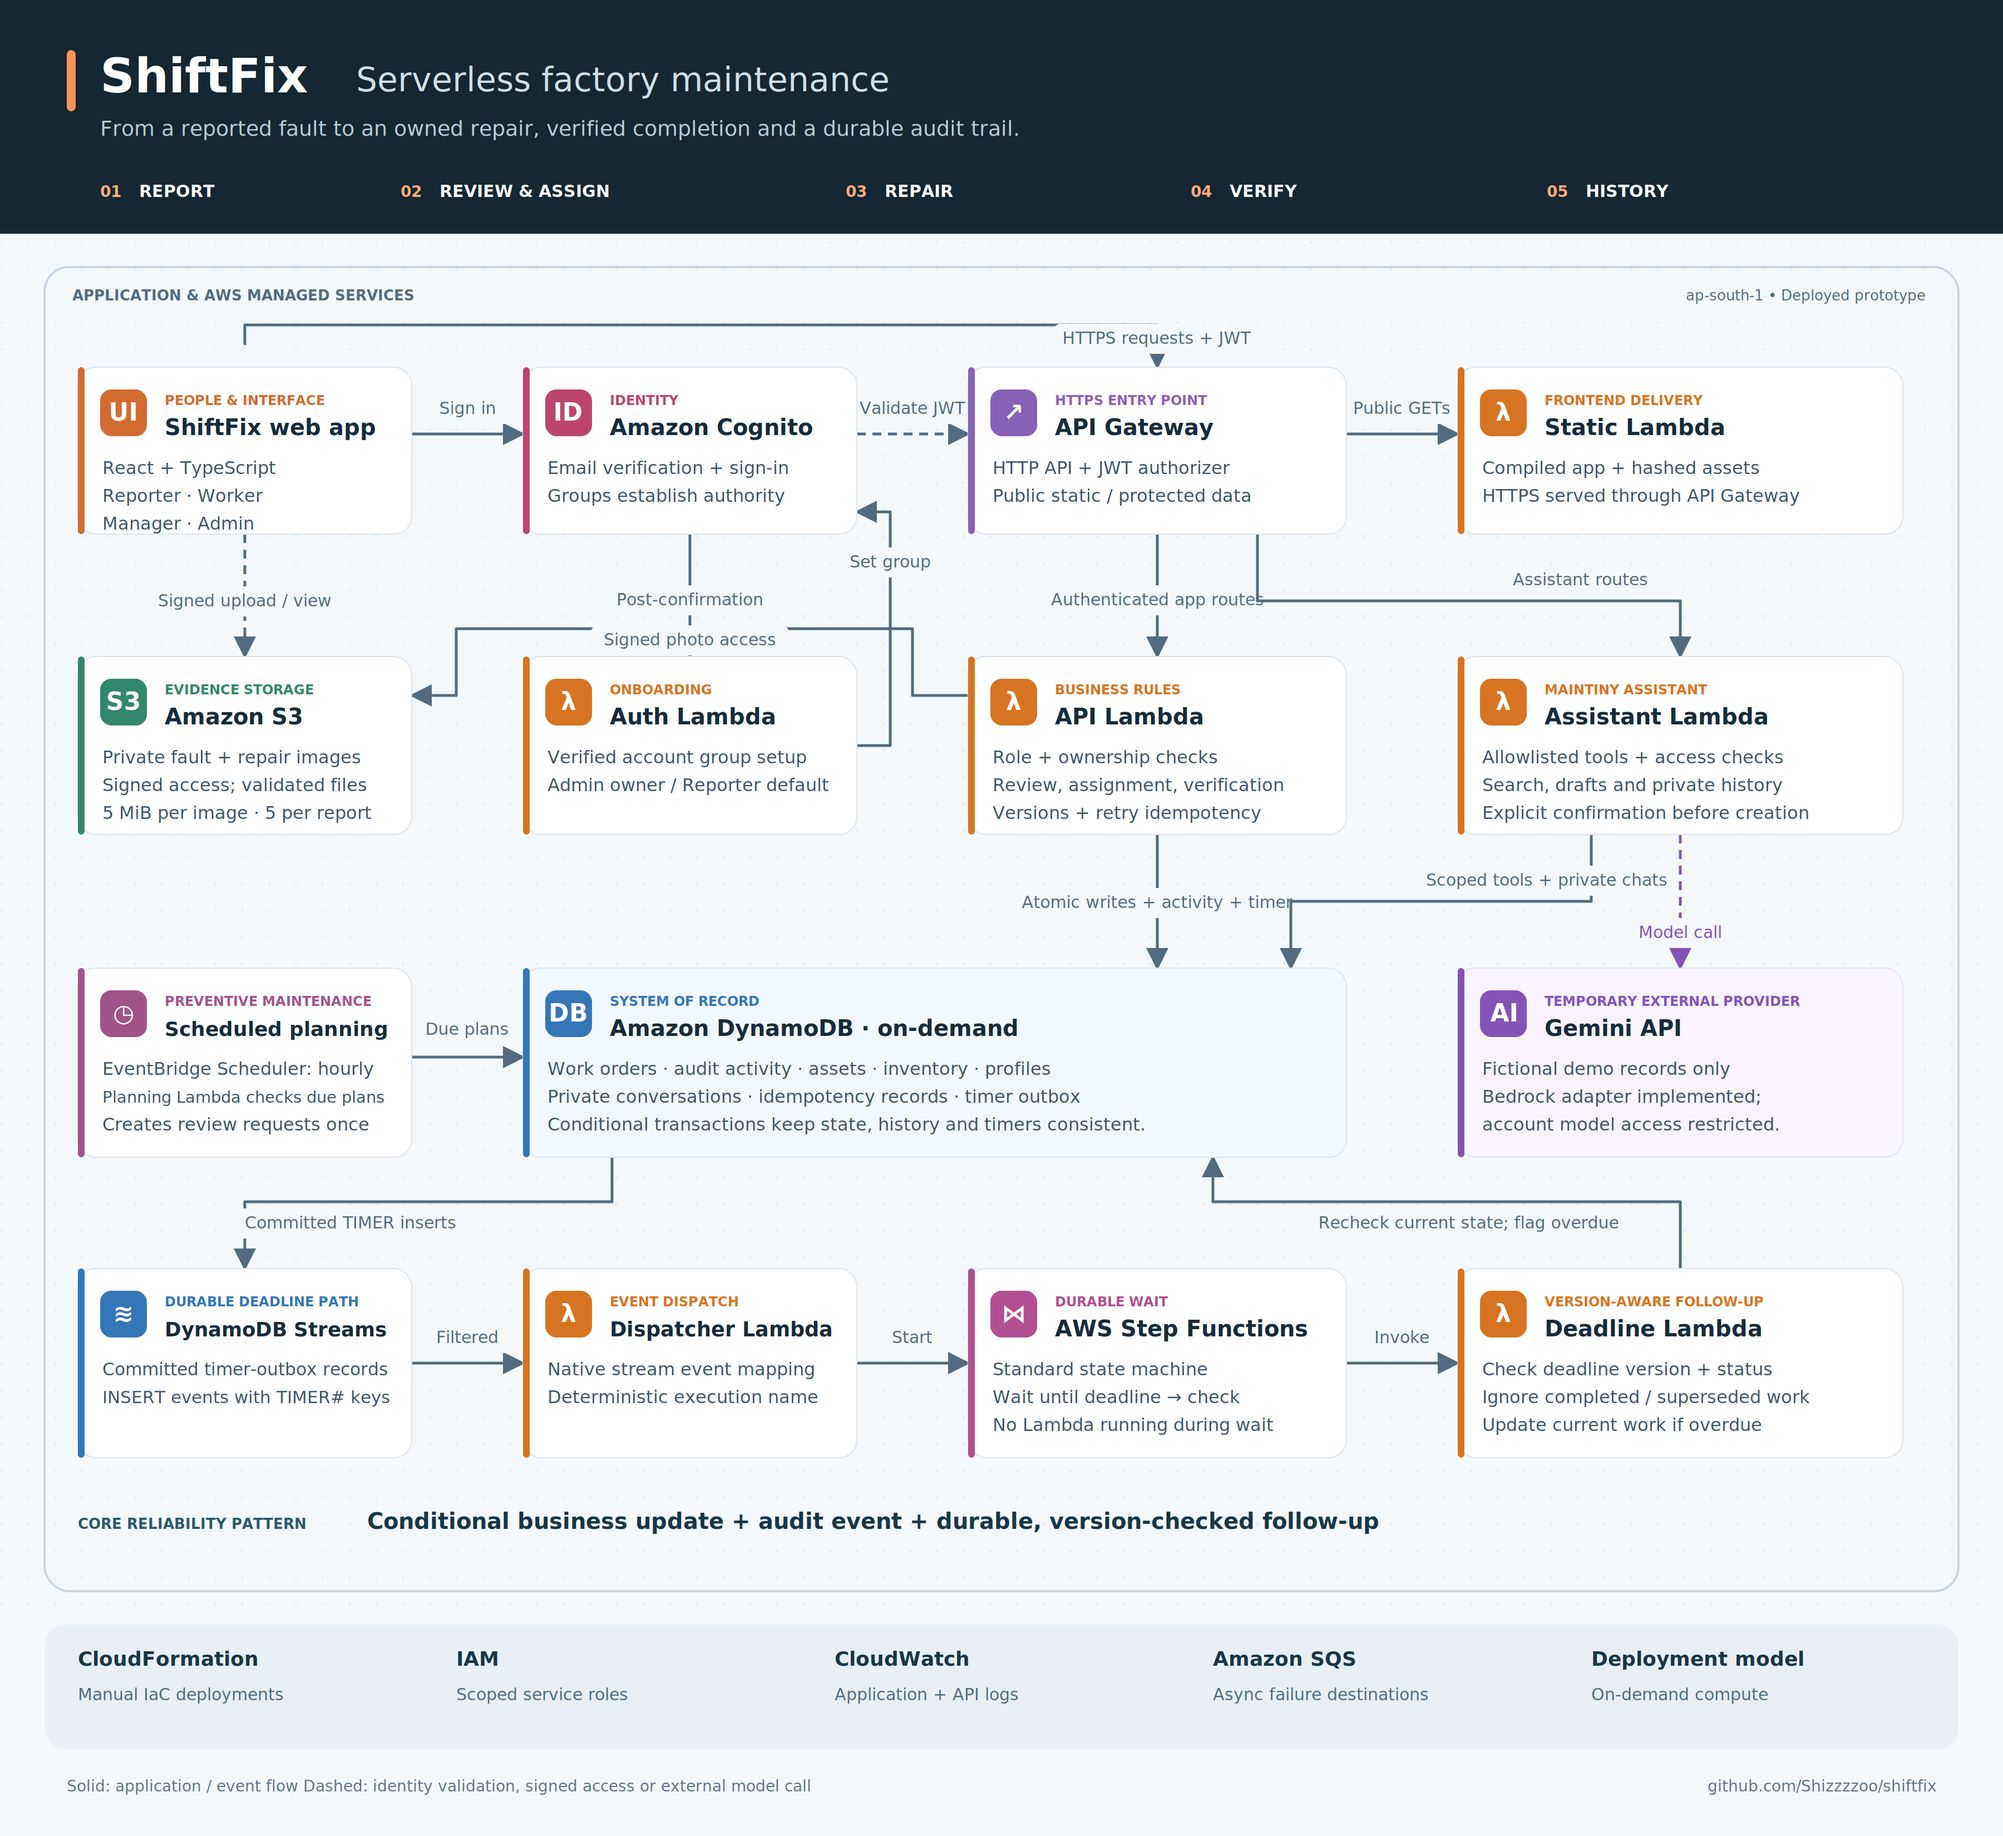
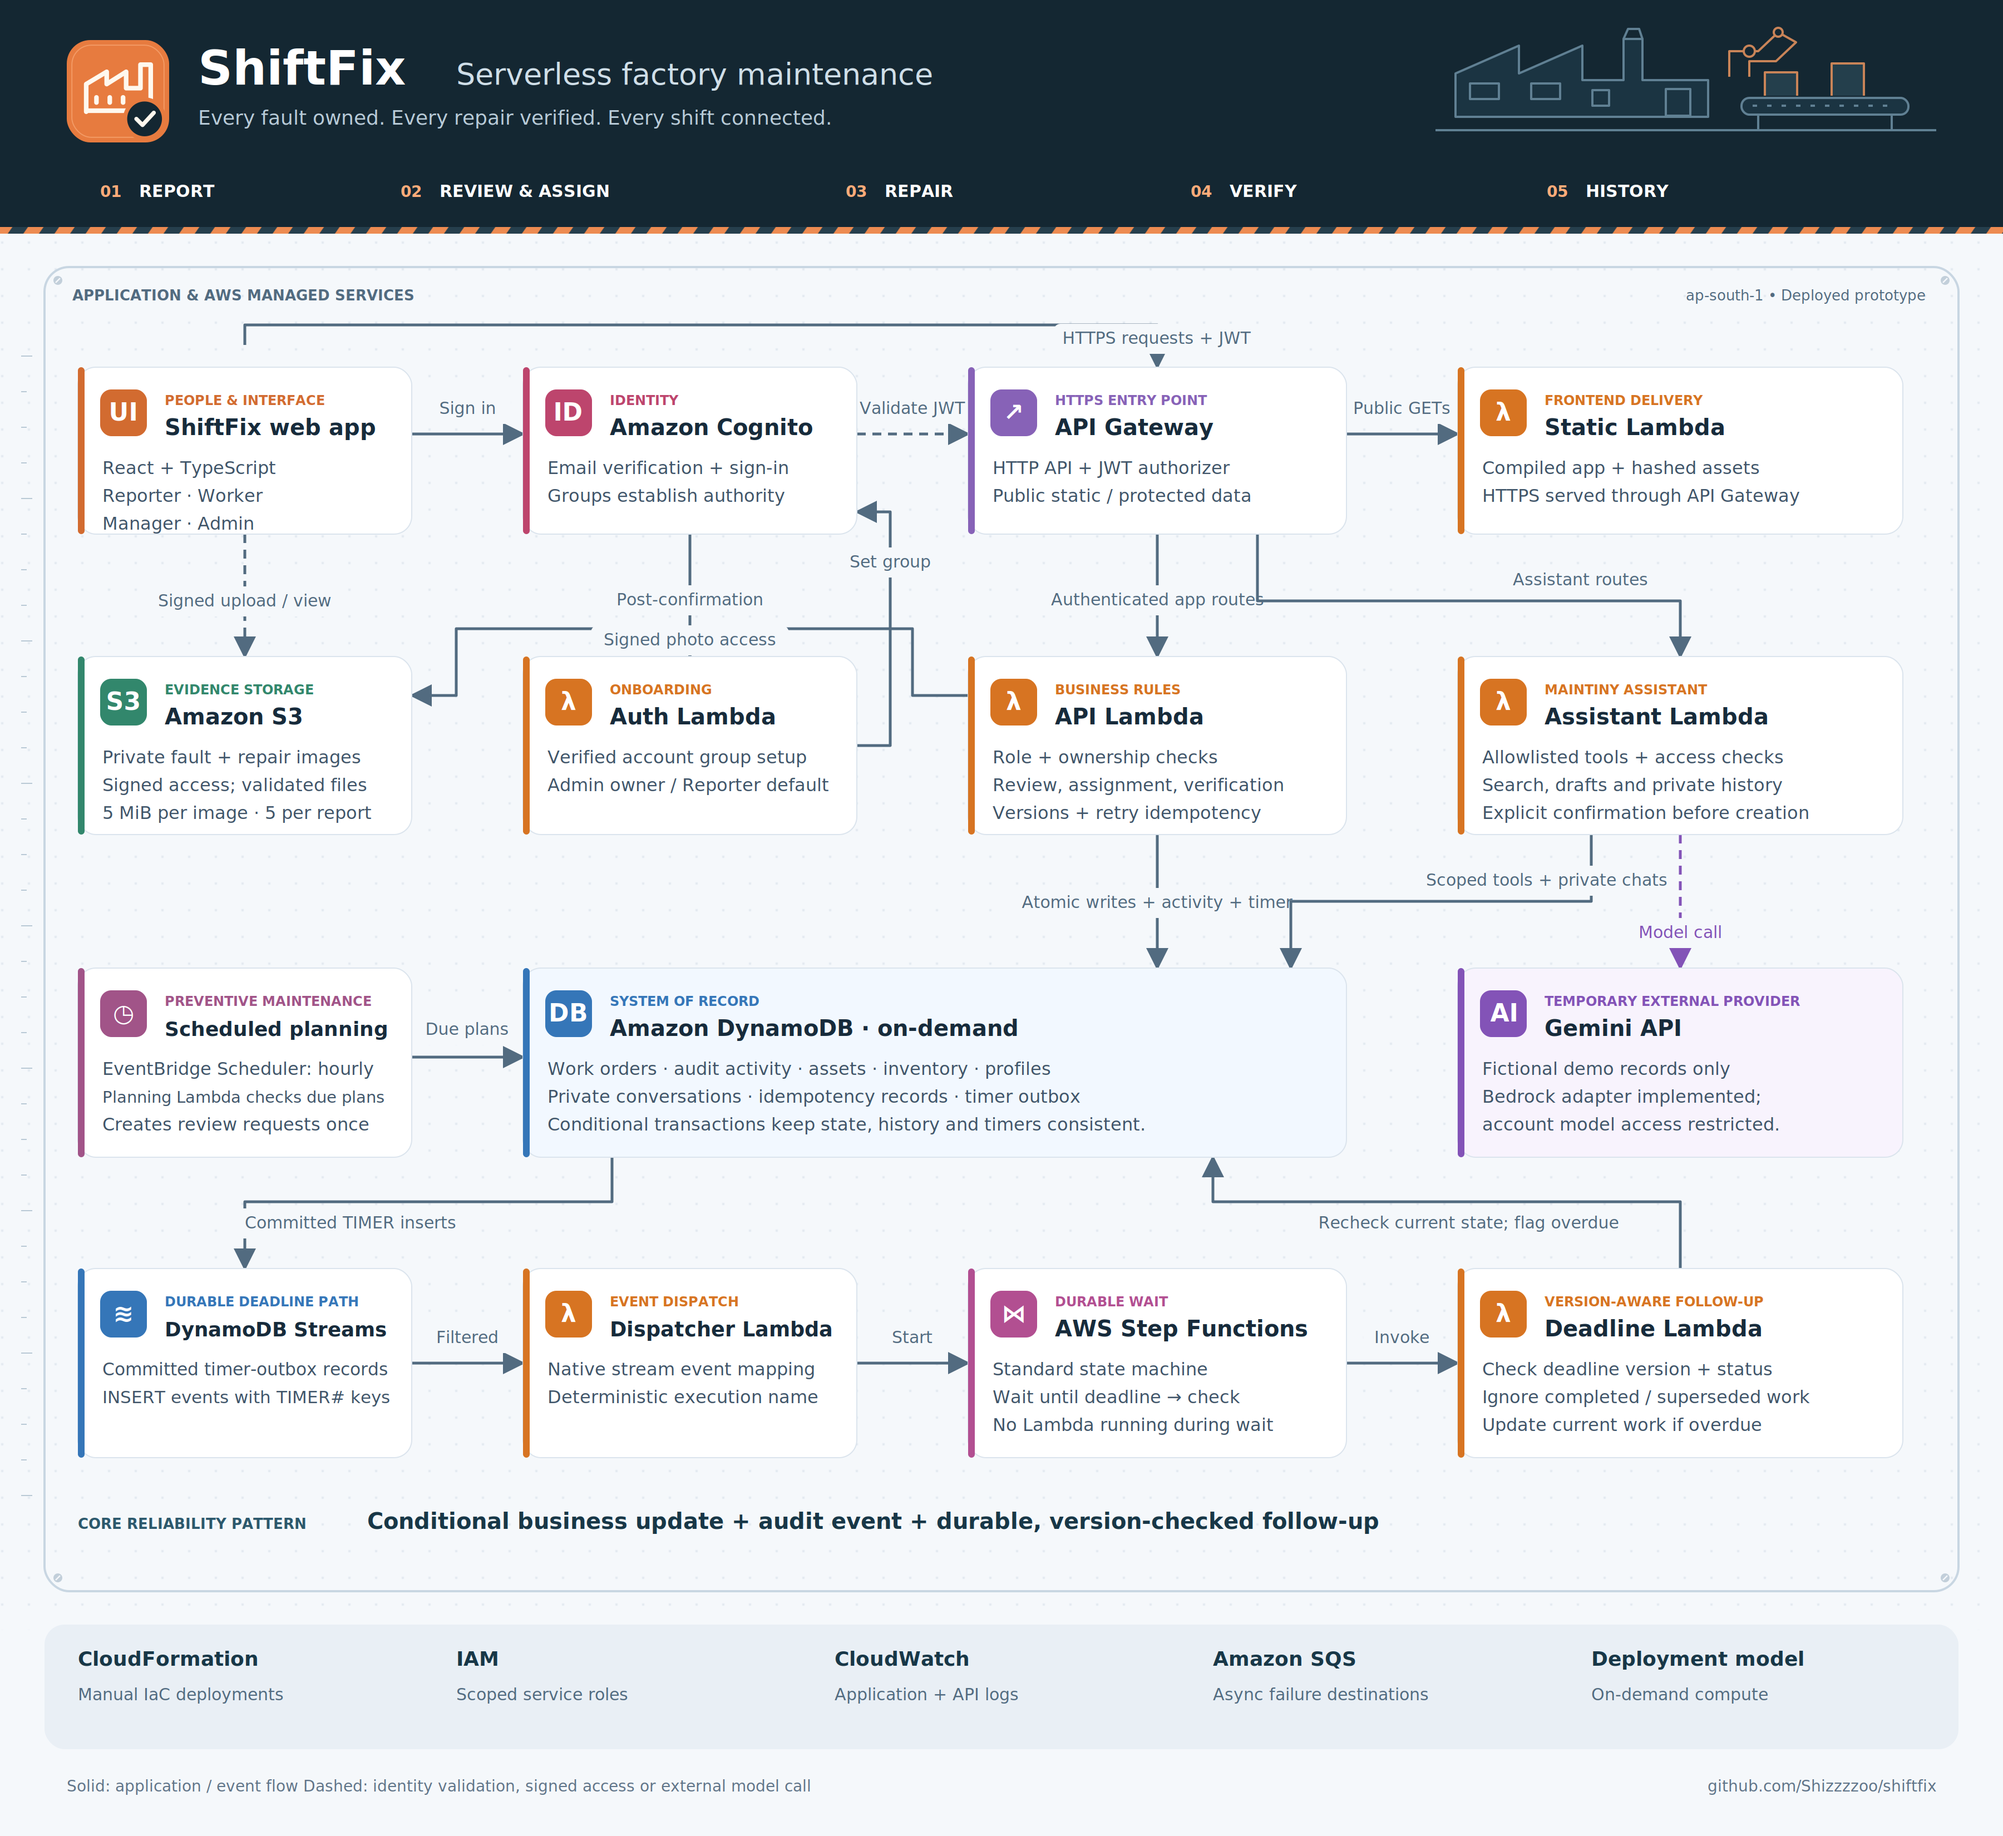
design: add factory identity to architecture illustration

Changed region(s): [[0.0311, 0.0, 0.4667, 0.0936], [0.8711, 0.0312, 0.9333, 0.0624]]

diff --git a/scripts/render-architecture.py b/scripts/render-architecture.py
@@ -8,6 +8,7 @@ OUT = Path('docs/submission-assets')
 W,H=1800,1650
 s=[f'<svg xmlns="http://www.w3.org/2000/svg" width="{W}" height="{H}" viewBox="0 0 {W} {H}">', '''<defs>
 <pattern id="dots" width="24" height="24" patternUnits="userSpaceOnUse"><circle cx="2" cy="2" r="1" fill="#dce4ec"/></pattern>
+<pattern id="safety" width="28" height="12" patternUnits="userSpaceOnUse" patternTransform="skewX(-35)"><rect width="14" height="12" fill="#ed8b51"/><rect x="14" width="14" height="12" fill="#263f4d"/></pattern>
 <filter id="shadow" x="-15%" y="-15%" width="130%" height="140%"><feDropShadow dx="0" dy="5" stdDeviation="7" flood-color="#122c42" flood-opacity=".07"/></filter>
 <marker id="arrow" viewBox="0 0 10 10" refX="9" refY="5" markerWidth="8" markerHeight="8" orient="auto-start-reverse"><path d="M0 0L10 5L0 10Z" fill="#526b80"/></marker>
 <marker id="purple" viewBox="0 0 10 10" refX="9" refY="5" markerWidth="8" markerHeight="8" orient="auto-start-reverse"><path d="M0 0L10 5L0 10Z" fill="#8353b7"/></marker>
@@ -16,6 +17,9 @@ def rect(x,y,w,h,fill,stroke='none',r=16,extra=''):
  s.append(f'<rect x="{x}" y="{y}" width="{w}" height="{h}" rx="{r}" fill="{fill}" stroke="{stroke}" {extra}/>')
 def text(x,y,t,size=18,color='#405569',weight=400,anchor='start'):
  s.append(f'<text x="{x}" y="{y}" font-family="DejaVu Sans, sans-serif" font-size="{size}" font-weight="{weight}" fill="{color}" text-anchor="{anchor}">{escape(t)}</text>')
+def logo(x,y,size):
+ # Original factory roof + verified-repair mark, shared with the standalone PNG.
+ s.append(f'<g transform="translate({x} {y}) scale({size/100})">{logo_mark}</g>')
 def line(d,purple=False,dash=False):
  color='#8353b7' if purple else '#526b80'
  s.append(f'<path d="{d}" fill="none" stroke="{color}" stroke-width="2.5" stroke-linejoin="round" marker-end="url(#{"purple" if purple else "arrow"})" '+('stroke-dasharray="8 6"' if dash else '')+'/>')
@@ -37,18 +41,43 @@ def card(x,y,w,h,kicker,title,lines,color,icon,fill='#fff'):
   size=min(16,16*(w-44)/font.getlength(l))
   text(x+22,y+96+i*25,l,size)
 
+logo_mark='''<rect x="0" y="0" width="100" height="100" rx="23" fill="#e77b3f"/>
+<rect x="5" y="5" width="90" height="90" rx="19" fill="none" stroke="#ffbd8f" stroke-opacity=".5"/>
+<path d="M19 70V43L39 31V43L58 31V47H72V24H82V69H19Z" fill="none" stroke="#fff8ee" stroke-width="4.5" stroke-linejoin="round"/>
+<path d="M29 56V61M42 56V61M55 56V61" stroke="#fff8ee" stroke-width="4.5" stroke-linecap="round"/>
+<circle cx="76" cy="77" r="19" fill="#142732" stroke="#e77b3f" stroke-width="4"/>
+<path d="M68 77L74 83L85 71" fill="none" stroke="#fff8ee" stroke-width="4" stroke-linecap="round" stroke-linejoin="round"/>'''
 rect(0,0,W,H,'#f5f8fb',r=0)
 s.append(f'<rect x="0" y="210" width="1800" height="1255" fill="url(#dots)"/>')
 rect(0,0,1800,210,'#142732',r=0)
-rect(60,45,8,55,'#ff9258',r=4)
-text(90,83,'ShiftFix',43,'#fff',700)
-text(320,82,'Serverless factory maintenance',30,'#cfdee8',400)
-text(90,122,'From a reported fault to an owned repair, verified completion and a durable audit trail.',19,'#b8cbd8')
+logo(60,36,92)
+text(178,76,'ShiftFix',43,'#fff',700)
+text(410,76,'Serverless factory maintenance',27,'#cfdee8',400)
+text(178,112,'Every fault owned. Every repair verified. Every shift connected.',18,'#b8cbd8')
+# Factory elevation / conveyor line, drawn as an understated engineering sketch.
+s.append('''<g transform="translate(1290 24)" stroke="#608093" stroke-width="2" stroke-linejoin="round">
+<path d="M0 93H450M18 81V42L75 17V42L132 17V48H169V11H186V48H245V81Z" fill="#1b3442"/>
+<path d="M169 11L173 2H183L186 11M31 51H57V65H31ZM86 51H112V65H86ZM141 57H156V71H141Z" fill="none"/>
+<path d="M207 56H229V80H207Z" fill="none"/>
+<rect x="275" y="64" width="150" height="15" rx="7" fill="#1b3442"/>
+<path d="M290 79V92M410 79V92"/>
+<path d="M296 62V41H325V62M356 62V33H385V62" fill="#243f4c" stroke="#c98458"/>
+<path d="M264 45V22H290L308 5L324 14L306 31H282V45" fill="none" stroke="#c98458"/>
+<circle cx="282" cy="22" r="5" fill="#142732" stroke="#c98458"/>
+<circle cx="308" cy="5" r="4" fill="#142732" stroke="#c98458"/>
+<path d="M285 71H414" stroke-dasharray="4 9"/>
+</g>''')
+s.append('<rect x="0" y="204" width="1800" height="6" fill="url(#safety)"/>')
 for x,n,t in [(90,'01','REPORT'),(360,'02','REVIEW & ASSIGN'),(760,'03','REPAIR'),(1070,'04','VERIFY'),(1390,'05','HISTORY')]:
  text(x,177,n,14,'#ffab79',700);text(x+35,177,t,15,'#fff',700)
 
 # Regions are diagram groupings, not VPC or subnet boundaries.
 rect(40,240,1720,1190,'none','#c8d6e2',22,'stroke-width="2"')
+for x,y in [(52,252),(1748,252),(52,1418),(1748,1418)]:
+ s.append(f'<circle cx="{x}" cy="{y}" r="4" fill="#c2cfda"/><path d="M{x-2} {y+2}L{x+2} {y-2}" stroke="#f5f8fb" stroke-width="1.2"/>')
+# Dimension ticks echo an equipment drawing without competing with the graph.
+for y in range(320,1370,32):
+ s.append(f'<path d="M19 {y}H{29 if (y-320)%128==0 else 24}" stroke="#b9c9d5" stroke-width="1"/>')
 text(65,270,'APPLICATION & AWS MANAGED SERVICES',13,'#526b80',700)
 text(1730,270,'ap-south-1  •  Deployed prototype',13,'#526b80',500,'end')
 
@@ -101,4 +130,6 @@ svg='\n'.join(s)
 OUT.mkdir(exist_ok=True,parents=True)
 (OUT/'shiftfix-architecture-hq.svg').write_text(svg)
 cairosvg.svg2png(bytestring=svg.encode(),write_to=str(OUT/'shiftfix-architecture-hq.png'),output_width=W*2,output_height=H*2)
+logo_svg=f'<svg xmlns="http://www.w3.org/2000/svg" viewBox="-4 -4 108 108">{logo_mark}</svg>'
+cairosvg.svg2png(bytestring=logo_svg.encode(),write_to=str(OUT/'shiftfix-factory-logo.png'),output_width=1024,output_height=1024)
 print('Rendered 3600 x 3300 PNG and editable SVG.')

diff --git a/docs/submission-assets/design-direction.md b/docs/submission-assets/design-direction.md
@@ -1,0 +1,9 @@
+# Shiftcraft
+
+Factory maintenance is expressed through precise geometry, clear connections and a quiet sense of machinery in motion. The visual reference is an equipment drawing: measured margins, restrained marks and components arranged with the care of a maintained production line.
+
+Charcoal evokes the machine enclosure; warm orange identifies responsibility and action. Pale steel backgrounds give the system room to breathe. Color remains purposeful, allowing the architecture's service families to retain their meaning.
+
+The original factory mark combines a sawtooth roof with a completion check. Its outline remains legible at small scale, while a separate badge suggests a repair that has passed verification. Meticulously crafted spacing keeps the mark distinct from the technical labels.
+
+Industrial detail belongs at the edges. A small conveyor elevation, fine measurement ticks and a narrow safety stripe establish the setting without obscuring a connection. The architecture remains the primary reading experience, with painstaking attention to alignment and hierarchy.
